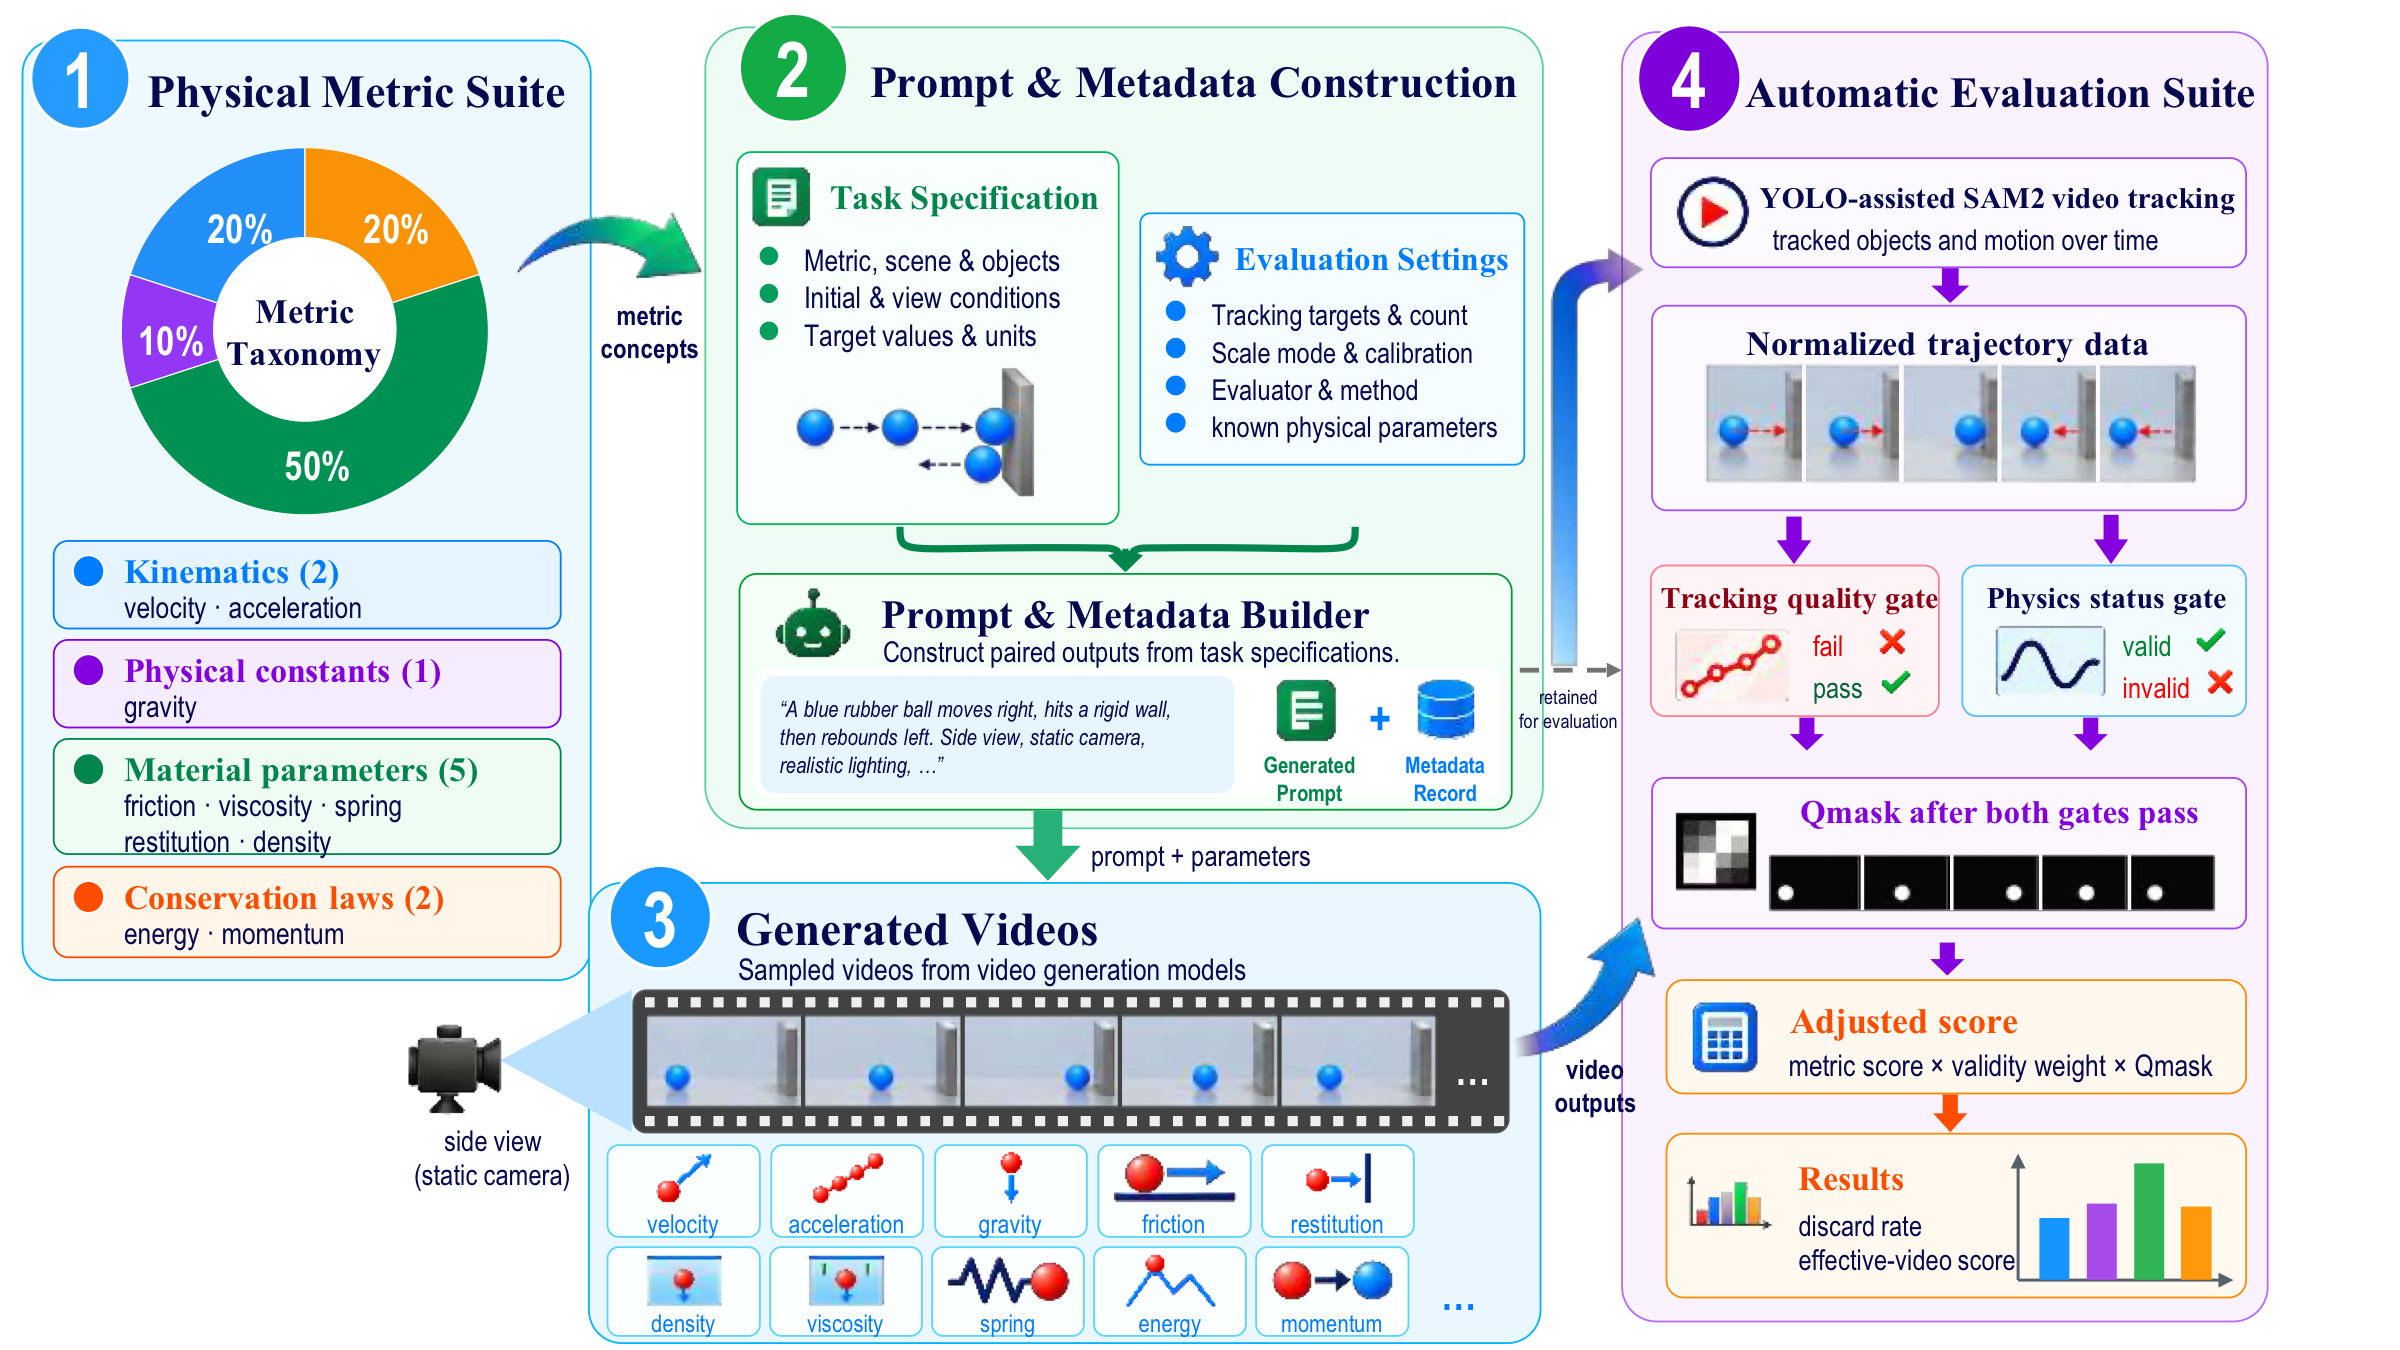
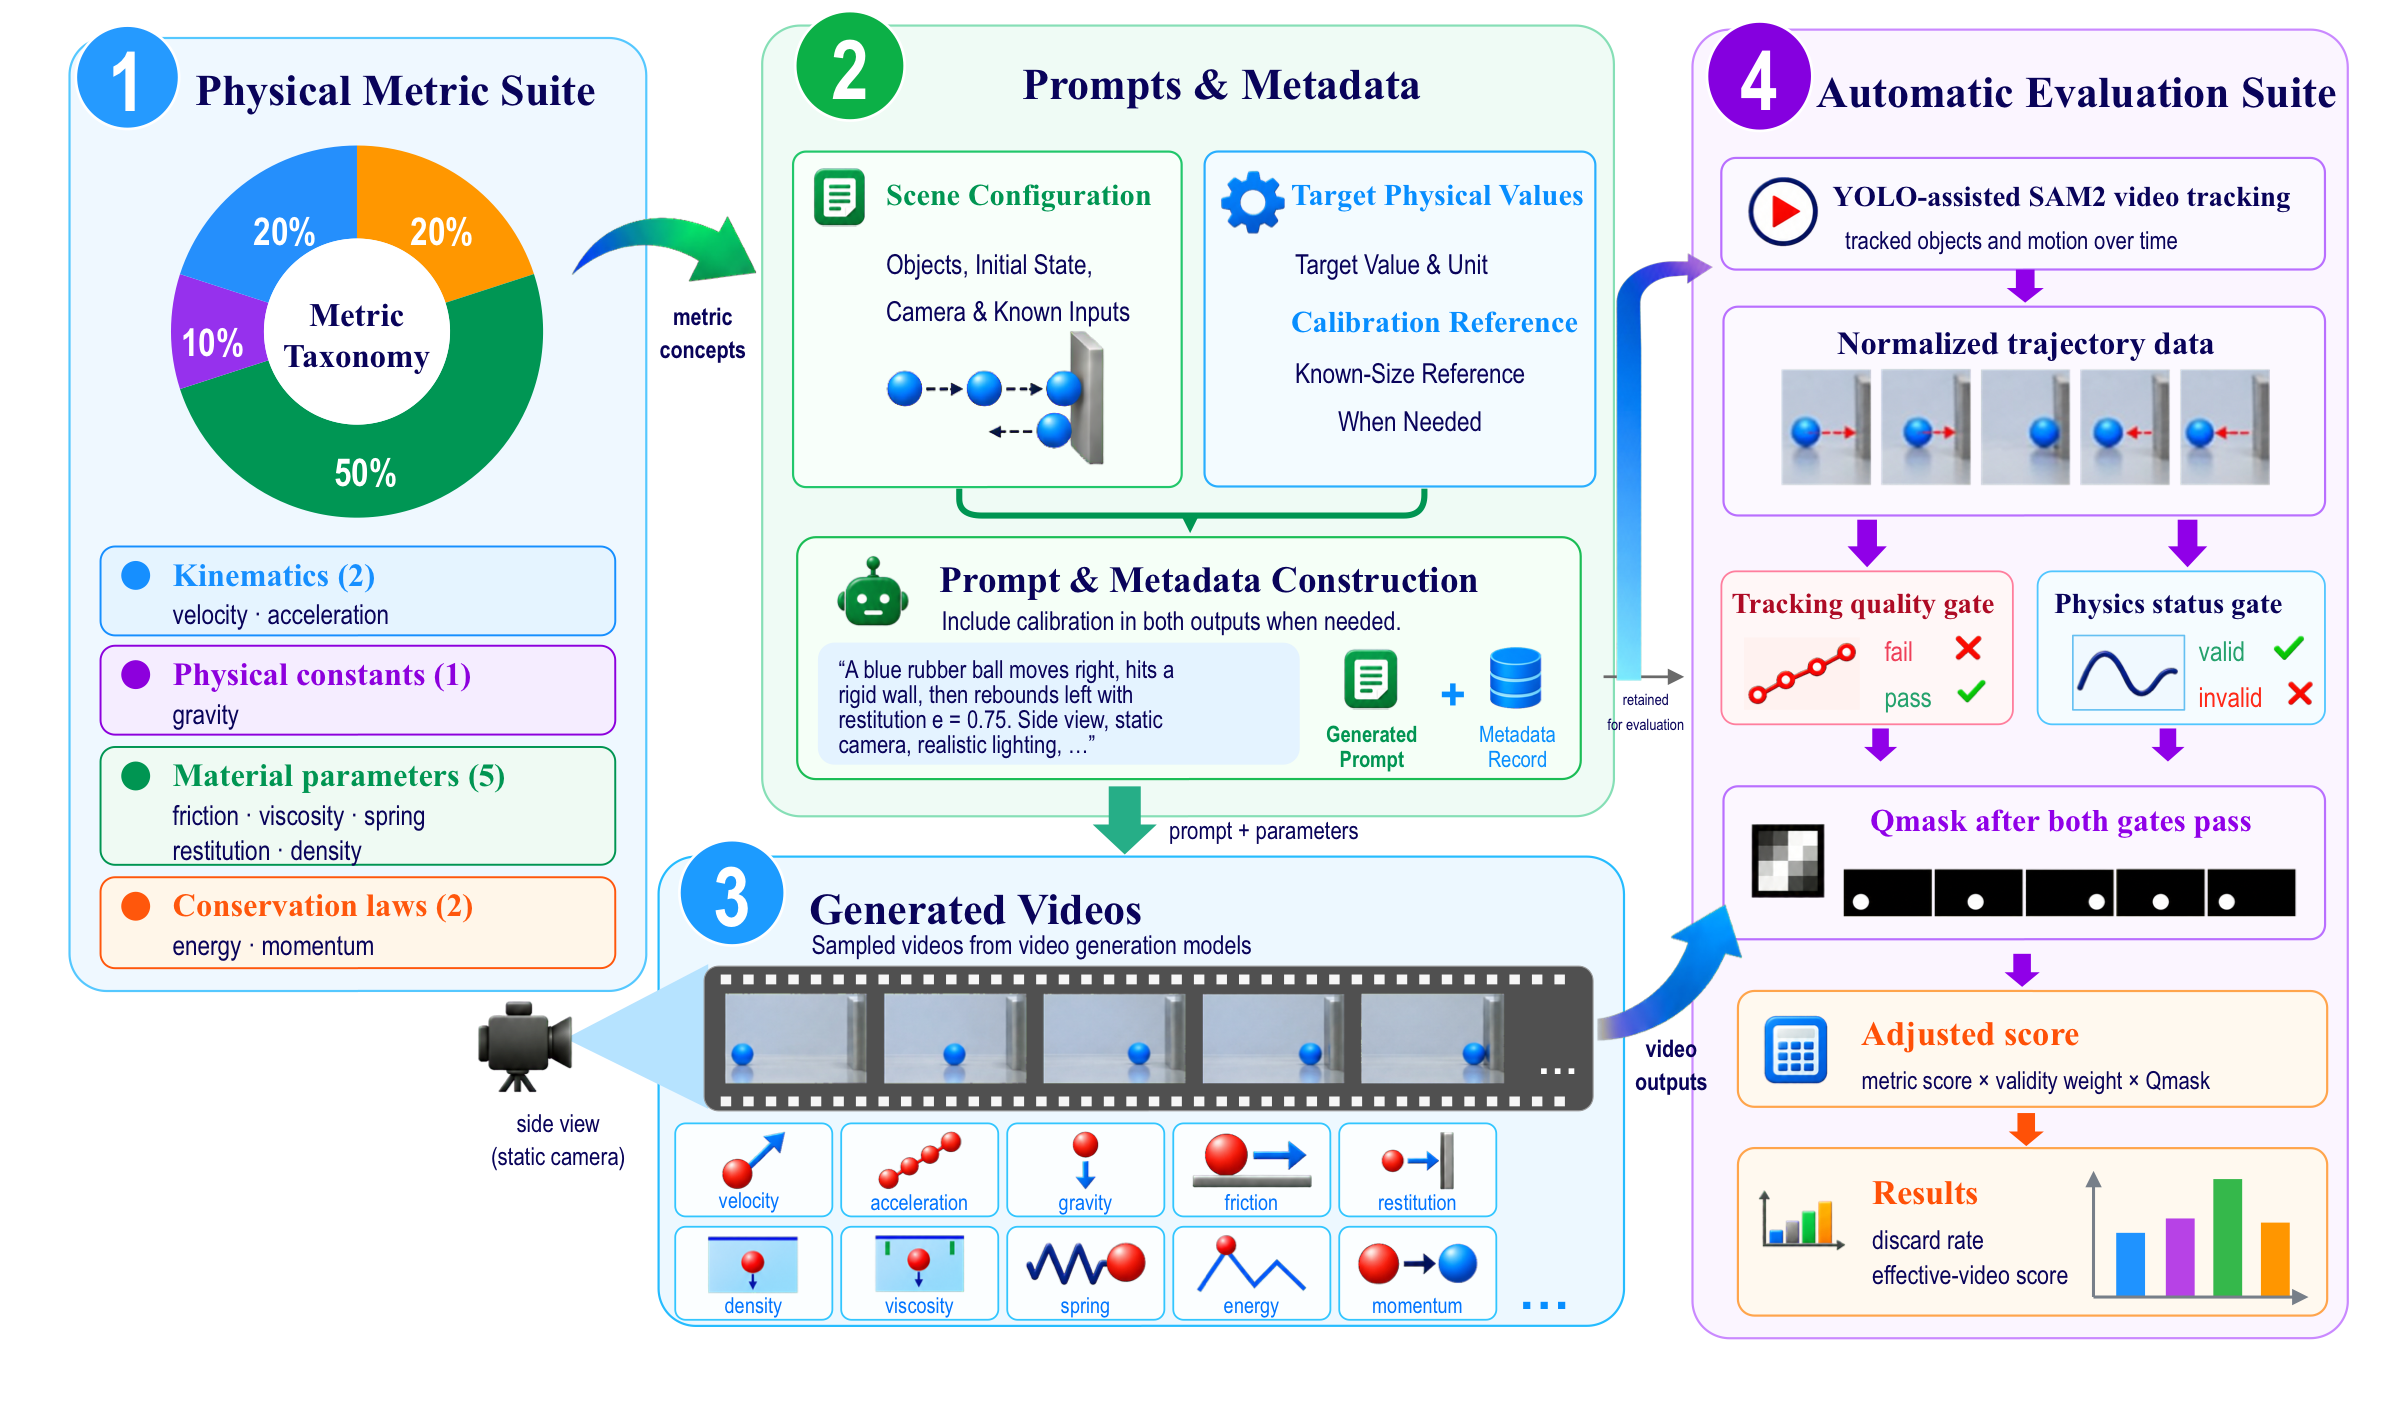
docs: update paper links and refine overview figure

diff --git a/README.md b/README.md
@@ -5,7 +5,7 @@
 [English](README.md) | [简体中文](README_zh-CN.md)
 
 [![License: MIT](https://img.shields.io/badge/License-MIT-yellow.svg)](LICENSE)
-[![Paper](https://img.shields.io/badge/Paper-PDF-b31b1b.svg)](docs/PhysEval.pdf)
+[![Paper](https://img.shields.io/badge/Paper-PDF-b31b1b.svg)](https://raw.githubusercontent.com/Cryptic0429/PhysEval/main/docs/PhysEval.pdf)
 ![visitors](https://visitor-badge.laobi.icu/badge?page_id=Cryptic0429.PhysEval&left_color=gray&right_color=blue)
 
 PhysEval measures how closely generated videos follow quantitative physical constraints. It pairs **500 prompts across 10 physical metrics** with an automatic pipeline that tracks objects, estimates physical quantities, and compares them with the targets specified in the benchmark.

diff --git a/README_zh-CN.md b/README_zh-CN.md
@@ -5,7 +5,7 @@
 [English](README.md) | [简体中文](README_zh-CN.md)
 
 [![License: MIT](https://img.shields.io/badge/License-MIT-yellow.svg)](LICENSE)
-[![Paper](https://img.shields.io/badge/Paper-PDF-b31b1b.svg)](docs/PhysEval.pdf)
+[![Paper](https://img.shields.io/badge/Paper-PDF-b31b1b.svg)](https://raw.githubusercontent.com/Cryptic0429/PhysEval/main/docs/PhysEval.pdf)
 ![visitors](https://visitor-badge.laobi.icu/badge?page_id=Cryptic0429.PhysEval&left_color=gray&right_color=blue)
 
 PhysEval 用于衡量生成视频对定量物理约束的遵循程度。项目提供覆盖 **10 项物理指标的 500 组提示词与元数据**，通过自动跟踪、物理量估计和目标值比较，评测文生视频模型的物理准确性。
